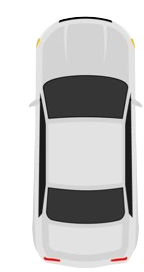
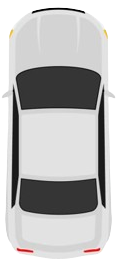
little updated changes

diff --git a/App/screens/InsideAppScreens/TabNavigationComponent.jsx b/App/screens/InsideAppScreens/TabNavigationComponent.jsx
@@ -33,17 +33,17 @@ function CustomTabBar({ state, descriptors, navigation }) {
         {
             id: 'bike',
             name: 'Moto',
-            image: require('../../../assets/images/moto.png'),
+            image: require('../../../assets/images/bike top.png'),
         },
         {
             id: 'auto',
             name: 'Auto',
-            image: require('../../../assets/images/auto.png'),
+            image: require('../../../assets/images/auto_top.png'),
         },
         {
             id: 'car',
             name: 'Car',
-            image: require('../../../assets/images/car.png'),
+            image: require('../../../assets/images/car top.png'),
         },
     ];
 

diff --git a/App.js b/App.js
@@ -76,6 +76,7 @@ import HistoryAll from './App/screens/InsideAppScreens/MenuScreens/EarningScreen
 import HistoryBikeTaxi from './App/screens/InsideAppScreens/MenuScreens/EarningScreens/HistoryScreens/HistoryBikeTaxi';
 import HistoryParcelDelivery from './App/screens/InsideAppScreens/MenuScreens/EarningScreens/HistoryScreens/HistoryParcelDelivery';
 import HistoryGroceries from './App/screens/InsideAppScreens/MenuScreens/EarningScreens/HistoryScreens/HistoryGroceries';
+import EarningsHelp from './App/screens/InsideAppScreens/MenuScreens/EarningScreens/EarningsHelp';
 const Stack = createStackNavigator();
 
 export default function App() {
